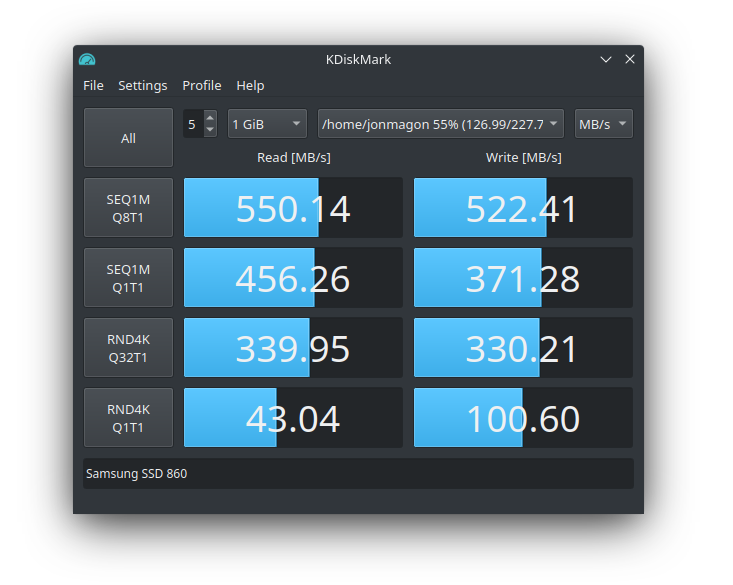
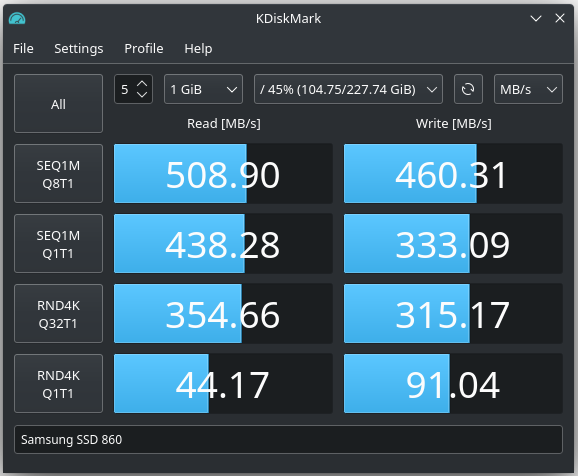
Update README.md

diff --git a/README.md b/README.md
@@ -17,28 +17,28 @@
 
 ## Report Example
 ```
-                     KDiskMark (2.3.0): https://github.com/JonMagon/KDiskMark
-                 Flexible I/O Tester (fio-3.28): https://github.com/axboe/fio
------------------------------------------------------------------------------
+                        KDiskMark (3.0.0): https://github.com/JonMagon/KDiskMark
+                    Flexible I/O Tester (fio-3.16): https://github.com/axboe/fio
+--------------------------------------------------------------------------------
 * MB/s = 1,000,000 bytes/s [SATA/600 = 600,000,000 bytes/s]
 * KB = 1000 bytes, KiB = 1024 bytes
 
 [Read]
-Sequential 1 MiB (Q= 8, T= 1):   550.145 MB/s [    537.3 IOPS] < 14840.12 us>
-Sequential 1 MiB (Q= 1, T= 1):   456.261 MB/s [    445.6 IOPS] <  2233.53 us>
-    Random 4 KiB (Q=32, T= 1):   339.953 MB/s [  84988.3 IOPS] <   377.48 us>
-    Random 4 KiB (Q= 1, T= 1):    43.042 MB/s [  10760.6 IOPS] <    90.69 us>
+Sequential   1 MiB (Q=  8, T= 1):   508.897 MB/s [    497.0 IOPS] < 13840.05 us>
+Sequential   1 MiB (Q=  1, T= 1):   438.278 MB/s [    428.0 IOPS] <  2280.14 us>
+    Random   4 KiB (Q= 32, T= 1):   354.657 MB/s [  88664.6 IOPS] <   352.37 us>
+    Random   4 KiB (Q=  1, T= 1):    44.166 MB/s [  11041.6 IOPS] <    88.48 us>
 
 [Write]
-Sequential 1 MiB (Q= 8, T= 1):   522.410 MB/s [    510.2 IOPS] < 15210.65 us>
-Sequential 1 MiB (Q= 1, T= 1):   371.278 MB/s [    362.6 IOPS] <  2248.00 us>
-    Random 4 KiB (Q=32, T= 1):   330.205 MB/s [  82551.5 IOPS] <   387.88 us>
-    Random 4 KiB (Q= 1, T= 1):   100.602 MB/s [  25150.7 IOPS] <    36.40 us>
+Sequential   1 MiB (Q=  8, T= 1):   460.312 MB/s [    449.5 IOPS] < 15153.11 us>
+Sequential   1 MiB (Q=  1, T= 1):   333.085 MB/s [    325.3 IOPS] <  2349.82 us>
+    Random   4 KiB (Q= 32, T= 1):   315.170 MB/s [  78792.5 IOPS] <   383.86 us>
+    Random   4 KiB (Q=  1, T= 1):    91.040 MB/s [  22760.3 IOPS] <    39.80 us>
 
 Profile: Default
-   Test: 1 GiB (x5) [Interval: 5 sec]
-   Date: 2021-11-02 13:17:41
-     OS: opensuse-tumbleweed 20211031 [linux 5.14.14-1-default]
+   Test: 1 GiB (x5) [Measure: 5 sec / Interval: 5 sec]
+   Date: 2022-08-24 16:10:33
+     OS: opensuse-tumbleweed 20220821 [linux 5.19.2-1-default]
 ```
 
 ## Dependencies
